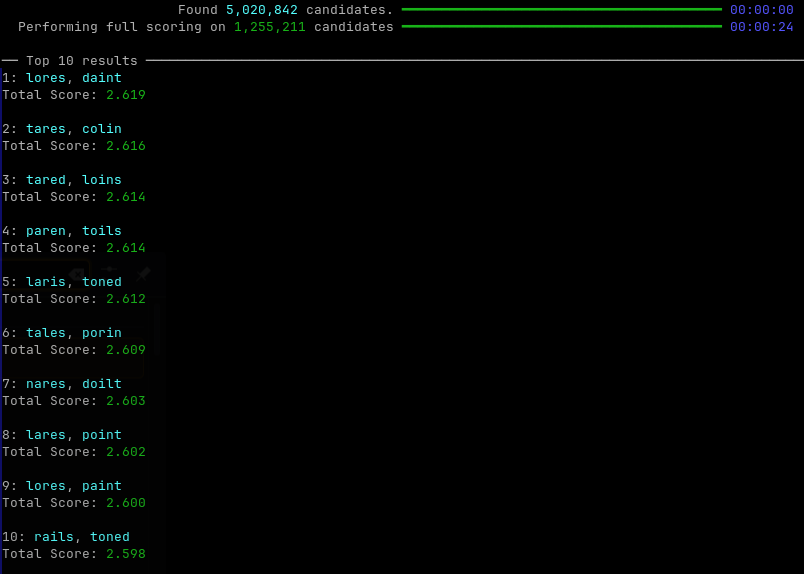
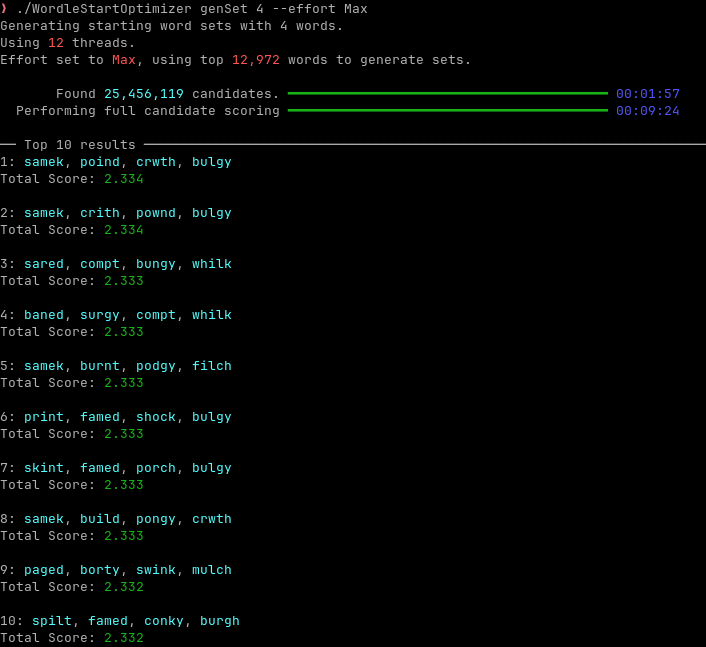
Update README

diff --git a/README.md b/README.md
@@ -1,6 +1,6 @@
 # Wordle Start Optimizer
 
-I'm bad at wordle. So rather then getting better, I thought I'd use a skill I actually have to cheat and make the game easier (⌐■_■)
+I'm bad at wordle. So rather than getting better, I thought I'd use a skill I actually have to cheat and make the game easier (⌐■_■)
 
 A command-line tool that searches for high-quality sets of Wordle opening words.
 
@@ -8,15 +8,16 @@ Rather than ranking individual words, Wordle Start Optimizer searches combinatio
 
 ## Features
 
-* Searches every valid combination of **2–5 starting words**
+* Searches every valid combination of **1–5 starting words**
 * Multi-threaded search for improved performance
 * Configurable scoring weights
 * Adjustable search effort to trade accuracy for speed
 * Detailed scoring breakdowns
 * Generate sets with required words
-* Generate sets with required letters
+* Generate sets with required or blocked letters
 * Generate sets that match specific letter patterns
-* Evaluate sets and get usefull metrics on how it expected to perform
+* Duplicate letter policies
+* Evaluate sets and get useful metrics on how it expected to perform
 
 ## How It Works
 
@@ -24,7 +25,18 @@ The program works in two stages.
 
 ### Candidate Generation
 
-The program generates possible opening word combinations, by default sets cannot contain duplicate letters, but this can be overridden with `--allowDuplicateLetters`. 
+The program generates possible opening word combinations, by default sets cannot contain duplicate letters, but this can be overridden with `--duplicateLetterPolicy`.
+
+| Policy              | Behaviour                                                  |
+|---------------------|------------------------------------------------------------|
+| Block (default)     | No letter may appear more than once across the whole set.  |
+| BlockInSamePosition | Repeated letters are allowed, but not in the same position |
+| Allow               | No restrictions                                            |
+
+Allowing duplicates can dramatically increase the number of candidates generated, and an estimate will be displayed (this estimate assumes the policy is set to allow, 
+and no restrictions or requirements are added). Currently the is a maximum of 2,147,483,647 candiates, this can be fixed in the future, however the scoring step is yet not 
+optimized well enough for this to viable.
+
 The search effort can be adjusted to reduce the amount of candidates generated, by only using the words with the highest entropy.
 
 | Effort |       Candidates Scored |
@@ -91,7 +103,7 @@ Rewards guesses that reveal correct letters in incorrect positions.
 
 Disabled by default because other metrics already capture much of this information.
 
-Also higher isn't neccersarily better, as the higher the score, the more likely a set is to produce anagram.
+Also higher isn't necessarily better, as the higher the score, the more likely a set is to produce anagram.
 
 ---
 
@@ -100,14 +112,6 @@ Also higher isn't neccersarily better, as the higher the score, the more likely 
 Rewards sets containing a variety of vowels.
 
 Not mathematically perfect, but humans tend to appreciate discovering that their mystery word contains actual vowels.
-
-Higher is better.
-
----
-
-### Letter Distribution
-
-Rewards commonly occurring Wordle letters and prioritizes stronger words earlier in the opening sequence.
 
 Higher is better.
 
@@ -129,13 +133,13 @@ Generate a 2-word opening set:
 WordleStartOptimizer genSet 2
 ```
 
-<img src="Images/1.png">
-
 Perform the maximum search:
 
 ```bash
-WordleStartOptimizer genSet 2 --effort Max
+WordleStartOptimizer genSet 4 --effort Max
 ```
+
+<img src="Images/1.png">
 
 Show detailed scoring for top 3 results:
 
@@ -150,7 +154,6 @@ Generate an opening set that promotes anagrams:
 ```bash
 WordleStartOptimizer genSet 4 -y 1.0 -g -0.3 -e 0.5
 ```
-
 
 Generate a 3 word set with the words Adieu and Torch
 
@@ -194,4 +197,4 @@ WordleStartOptimizer eval lores daint
 
 <img src="Images/3.png">
 
-###### AI disclaimer: I used AI to assist with documentation and licensing.
+###### AI disclaimer: I used AI to assist with documentation, licensing and the `PatternCounter` class (because idk how to make performant collection types).
